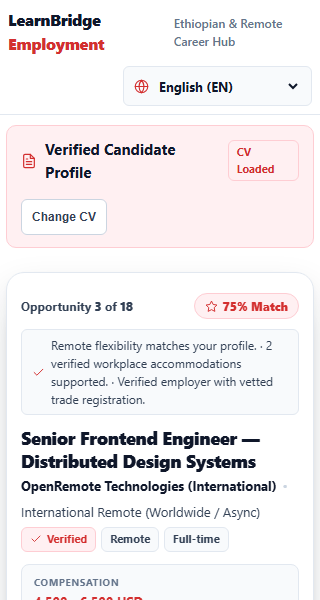
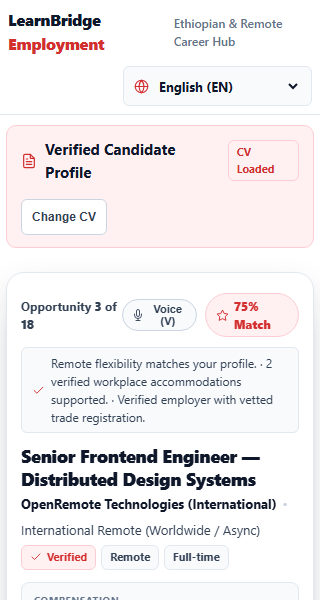
feat(employment): map 'M' key for job details, add continuous mic button and 'V' key shortcut

Changed region(s): [[0.0625, 0.48, 0.9375, 1.0], [0.0625, 0.51, 0.125, 0.57]]

diff --git a/employment/accessibility/a11yManager.js b/employment/accessibility/a11yManager.js
@@ -637,29 +637,100 @@ class AccessibilityManager {
 
   setupSpeechRecognition() {
     const SpeechRecognition = window.SpeechRecognition || window.webkitSpeechRecognition;
-    if (!SpeechRecognition) return;
+    if (!SpeechRecognition) {
+      console.warn("[A11yManager] SpeechRecognition not available in this environment.");
+      return;
+    }
 
-    this.recognition = new SpeechRecognition();
-    this.recognition.continuous = false;
-    this.recognition.interimResults = false;
-    this.recognition.lang = 'en-US';
+    try {
+      this.recognition = new SpeechRecognition();
+      this.recognition.continuous = true;
+      this.recognition.interimResults = false;
+      this.recognition.lang = 'en-US';
+      this.isListeningActive = false;
 
-    this.recognition.onstart = () => {
-      this.voiceActive = true;
-      const hud = document.getElementById('voice-hud');
-      if (hud) hud.classList.add('active');
-      this.announceLive("Voice search listening...", false);
-    };
+      this.recognition.onstart = () => {
+        this.voiceActive = true;
+        this.updateVoiceStatusUI(true);
+        this.announceLive("Voice listening active. Say more, apply, or pass.", false);
+      };
 
-    this.recognition.onend = () => {
-      this.voiceActive = false;
-      const hud = document.getElementById('voice-hud');
-      if (hud) hud.classList.remove('active');
-    };
+      this.recognition.onend = () => {
+        this.voiceActive = false;
+        if (this.isListeningActive) {
+          try {
+            this.recognition.start();
+          } catch (_) {
+            this.updateVoiceStatusUI(false);
+          }
+        } else {
+          this.updateVoiceStatusUI(false);
+        }
+      };
 
-    this.recognition.onerror = (e) => {
-      console.warn("[A11yManager] Voice recognition error:", e.error);
-    };
+      this.recognition.onerror = (e) => {
+        console.warn("[A11yManager] Voice recognition error:", e.error);
+        if (e.error === 'not-allowed') {
+          this.isListeningActive = false;
+          this.updateVoiceStatusUI(false);
+          this.showVisualToast("Microphone access denied. Please click the microphone icon in your browser address bar to allow.");
+        }
+      };
+
+      this.recognition.onresult = (event) => {
+        const lastResult = event.results[event.results.length - 1];
+        if (!lastResult) return;
+        const transcript = lastResult[0].transcript;
+        console.log("[A11yManager] Heard voice:", transcript);
+
+        if (window.app && typeof window.app.handleVoiceCommand === 'function') {
+          window.app.handleVoiceCommand(transcript);
+        }
+      };
+    } catch (err) {
+      console.warn("[A11yManager] Failed to init SpeechRecognition:", err);
+    }
+  }
+
+  toggleVoiceListening() {
+    if (!this.recognition) {
+      this.showVisualToast("Speech recognition not supported in this browser. Please use M, Left Arrow, and Right Arrow.");
+      return;
+    }
+
+    if (this.voiceActive || this.isListeningActive) {
+      this.isListeningActive = false;
+      try { this.recognition.stop(); } catch (_) {}
+      this.updateVoiceStatusUI(false);
+      this.showVisualToast("Microphone muted.");
+    } else {
+      this.isListeningActive = true;
+      try {
+        this.recognition.start();
+        this.showVisualToast("Listening for voice commands: 'more', 'apply', 'pass'");
+      } catch (err) {
+        console.warn("[A11yManager] Speech start error:", err);
+        this.showVisualToast("Please allow microphone access in your browser.");
+      }
+    }
+  }
+
+  updateVoiceStatusUI(isActive) {
+    this.voiceActive = isActive;
+    const btns = document.querySelectorAll('.btn-deck-mic');
+    btns.forEach(btn => {
+      if (isActive) {
+        btn.classList.add('is-listening');
+        btn.setAttribute('aria-pressed', 'true');
+        const lbl = btn.querySelector('.mic-status-label');
+        if (lbl) lbl.textContent = 'Mic: Listening (V)';
+      } else {
+        btn.classList.remove('is-listening');
+        btn.setAttribute('aria-pressed', 'false');
+        const lbl = btn.querySelector('.mic-status-label');
+        if (lbl) lbl.textContent = 'Voice (V)';
+      }
+    });
   }
 
   startVoiceSearch(onResultCallback) {

diff --git a/employment/app.js b/employment/app.js
@@ -394,9 +394,23 @@ class EmploymentApp {
       };
     }
 
+    // Bind Voice Microphone toggle button
+    const micBtn = wrapper.querySelector('#btn-deck-mic');
+    if (micBtn) {
+      micBtn.onclick = (e) => {
+        e.preventDefault();
+        if (window.a11y) window.a11y.toggleVoiceListening();
+      };
+      if (window.a11y && window.a11y.voiceActive) {
+        micBtn.classList.add('is-listening');
+        const lbl = micBtn.querySelector('.mic-status-label');
+        if (lbl) lbl.textContent = 'Mic: Listening (V)';
+      }
+    }
+
     // Accessible announcements for screen readers & TTS
     const job = currentItem.job;
-    const spokenSummary = `Opportunity ${this.currentCardIndex + 1} of ${this.cardDeck.length}: ${job.title} at ${job.employerName}. ${currentItem.matchScore}% Match. Press Right Arrow to apply with CV, Left Arrow to pass, or Tab for full details.`;
+    const spokenSummary = `Opportunity ${this.currentCardIndex + 1} of ${this.cardDeck.length}: ${job.title} at ${job.employerName}. ${currentItem.matchScore}% Match. Press Right Arrow to apply with CV, Left Arrow to pass, or M for full details.`;
     if (window.a11y) {
       window.a11y.announceLive(spokenSummary, false);
       if (window.a11y.currentMode === 'blind') {
@@ -427,10 +441,10 @@ class EmploymentApp {
       if (toggleBtn) {
         toggleBtn.setAttribute('aria-expanded', 'false');
         const txt = toggleBtn.querySelector('.toggle-text');
-        if (txt) txt.textContent = 'More Details (Tab or say "more")';
+        if (txt) txt.textContent = 'More Details (Press M or click)';
       }
       if (window.a11y) {
-        window.a11y.announceLive("Collapsed details. Press Right Arrow to apply, Left Arrow to pass, Tab for more details.", false);
+        window.a11y.announceLive("Collapsed details. Press Right Arrow to apply, Left Arrow to pass, M for details.", false);
       }
     } else {
       detailsEl.style.display = 'block';
@@ -439,12 +453,12 @@ class EmploymentApp {
       if (toggleBtn) {
         toggleBtn.setAttribute('aria-expanded', 'true');
         const txt = toggleBtn.querySelector('.toggle-text');
-        if (txt) txt.textContent = 'Less Details (Tab to collapse)';
+        if (txt) txt.textContent = 'Less Details (Press M to collapse)';
       }
       if (window.a11y) {
         const currentItem = this.cardDeck[this.currentCardIndex];
         const job = currentItem?.job;
-        const spoken = `Full details for ${job?.title || 'job'}. Press Right Arrow to apply with CV, Left Arrow to pass, or Tab to collapse.`;
+        const spoken = `Full details for ${job?.title || 'job'}. Press Right Arrow to apply with CV, Left Arrow to pass, or M to collapse.`;
         window.a11y.announceLive(spoken, false);
         if (window.a11y.currentMode === 'blind') {
           window.a11y.speak(spoken);
@@ -1083,12 +1097,17 @@ class EmploymentApp {
 
       const isRight = e.key === 'ArrowRight' || e.code === 'ArrowRight' || e.key === 'Right' || e.keyCode === 39;
       const isLeft = e.key === 'ArrowLeft' || e.code === 'ArrowLeft' || e.key === 'Left' || e.keyCode === 37;
-      const isTab = e.key === 'Tab' || e.code === 'Tab' || e.keyCode === 9;
+      const isMore = e.key === 'm' || e.key === 'M' || e.code === 'KeyM';
+      const isVoice = e.key === 'v' || e.key === 'V' || e.code === 'KeyV';
 
-      if (isTab) {
+      if (isMore) {
         e.preventDefault();
         e.stopPropagation();
         this.toggleCardDetails();
+      } else if (isVoice) {
+        e.preventDefault();
+        e.stopPropagation();
+        if (window.a11y) window.a11y.toggleVoiceListening();
       } else if (isRight) {
         e.preventDefault();
         e.stopPropagation();

diff --git a/employment/components/JobCard.js b/employment/components/JobCard.js
@@ -219,9 +219,15 @@ class JobCardComponent {
             <div class="deck-counter-badge">
               Opportunity <strong>${index + 1}</strong> of <strong>${total}</strong>
             </div>
-            <div class="match-score-pill">
-              <svg class="ui-icon" style="width: 13px; height: 13px;" viewBox="0 0 24 24"><polygon points="12 2 15.09 8.26 22 9.27 17 14.14 18.18 21.02 12 17.77 5.82 21.02 7 14.14 2 9.27 8.91 8.26 12 2"/></svg>
-              <span><strong>${matchScore}%</strong> Match</span>
+            <div style="display: flex; align-items: center; gap: 8px;">
+              <button type="button" class="btn-deck-mic" id="btn-deck-mic" aria-label="Toggle voice commands microphone (Press V)" title="Click or press V to speak commands: 'more', 'apply', 'pass'">
+                <svg class="ui-icon mic-icon" viewBox="0 0 24 24"><path d="M12 1a3 3 0 0 0-3 3v8a3 3 0 0 0 6 0V4a3 3 0 0 0-3-3z"/><path d="M19 10v2a7 7 0 0 1-14 0v-2"/><line x1="12" y1="19" x2="12" y2="23"/><line x1="8" y1="23" x2="16" y2="23"/></svg>
+                <span class="mic-status-label">Voice (V)</span>
+              </button>
+              <div class="match-score-pill">
+                <svg class="ui-icon" style="width: 13px; height: 13px;" viewBox="0 0 24 24"><polygon points="12 2 15.09 8.26 22 9.27 17 14.14 18.18 21.02 12 17.77 5.82 21.02 7 14.14 2 9.27 8.91 8.26 12 2"/></svg>
+                <span><strong>${matchScore}%</strong> Match</span>
+              </div>
             </div>
           </div>
 
@@ -270,13 +276,13 @@ class JobCardComponent {
             ` : ''}
           </div>
 
-          <!-- Toggle More Details Button (Tab key or click) -->
-          <button type="button" class="btn-card-toggle-details" id="btn-card-toggle-details" aria-expanded="false" aria-controls="card-expanded-details-${job.id}" aria-label="Toggle full job details (Press Tab or say more)">
-            <span class="toggle-text">More Details (Tab or say "more")</span>
+          <!-- Toggle More Details Button (M key or click) -->
+          <button type="button" class="btn-card-toggle-details" id="btn-card-toggle-details" aria-expanded="false" aria-controls="card-expanded-details-${job.id}" aria-label="Toggle full job details (Press M or click)">
+            <span class="toggle-text">More Details (Press M or click)</span>
             <svg class="ui-icon toggle-icon" viewBox="0 0 24 24"><polyline points="6 9 12 15 18 9"/></svg>
           </button>
 
-          <!-- Expanded Full Details (Revealed via Tab or 'More') -->
+          <!-- Expanded Full Details (Revealed via M or 'More') -->
           <div class="swipe-card-expanded-details" id="card-expanded-details-${job.id}" style="display: none;" aria-hidden="true">
             ${resps ? `
               <div class="swipe-card-section">
@@ -312,7 +318,7 @@ class JobCardComponent {
               <span>Pass</span>
             </div>
             <div class="hint-col hint-mid">
-              <kbd class="key-kbd">Tab</kbd>
+              <kbd class="key-kbd">M</kbd>
               <span>More Info</span>
             </div>
             <div class="hint-col hint-right">

diff --git a/employment/tests/e2e-browser.test.js b/employment/tests/e2e-browser.test.js
@@ -189,15 +189,15 @@ async function runBrowserTests() {
     assert.ok(firstCardTitle && firstCardTitle.length > 0);
     passed++;
 
-    // 12. Test Tab Key to Reveal More Job Information
-    await page.keyboard.press('Tab');
+    // 12. Test 'M' Key to Reveal More Job Information
+    await page.keyboard.press('m');
     await page.waitForTimeout(300);
-    const detailsVisibleAfterTab = await page.evaluate(() => {
+    const detailsVisibleAfterM = await page.evaluate(() => {
       const el = document.querySelector('.swipe-card-expanded-details');
       return el && el.style.display !== 'none';
     });
-    console.log(`✓ 14. Pressed Tab key: Expanded job details visible = ${detailsVisibleAfterTab}`);
-    assert.strictEqual(detailsVisibleAfterTab, true, "Pressing Tab must expand full job details");
+    console.log(`✓ 14. Pressed 'M' key: Expanded job details visible = ${detailsVisibleAfterM}`);
+    assert.strictEqual(detailsVisibleAfterM, true, "Pressing 'M' must expand full job details");
     passed++;
 
     // 13. Test Right Arrow While Viewing Full Details (Arrow keys must still work!)
@@ -208,8 +208,8 @@ async function runBrowserTests() {
     assert.ok(secondCardTitle && secondCardTitle !== firstCardTitle);
     passed++;
 
-    // 14. Test Tab Key on Next Card and Left Arrow to Pass While Expanded
-    await page.keyboard.press('Tab');
+    // 14. Test 'M' Key on Next Card and Left Arrow to Pass While Expanded
+    await page.keyboard.press('m');
     await page.waitForTimeout(300);
     await page.keyboard.press('ArrowLeft');
     await page.waitForTimeout(400);

diff --git a/employment/employment.css b/employment/employment.css
@@ -440,6 +440,45 @@ textarea:focus-visible,
   color: var(--text-secondary);
 }
 
+.btn-deck-mic {
+  display: inline-flex;
+  align-items: center;
+  gap: 5px;
+  padding: 3px 9px;
+  border-radius: var(--radius-pill);
+  background: var(--bg-muted);
+  border: 1px solid var(--border-strong);
+  font-size: 11px;
+  font-weight: 700;
+  color: var(--text-secondary);
+  cursor: pointer;
+  transition: all 0.15s ease;
+}
+
+.btn-deck-mic:hover, .btn-deck-mic:focus-visible {
+  border-color: var(--primary-red);
+  color: var(--primary-red);
+}
+
+.btn-deck-mic.is-listening {
+  background: var(--primary-red-tint);
+  border-color: var(--primary-red);
+  color: var(--primary-red);
+  box-shadow: 0 0 0 2px rgba(211, 47, 47, 0.25);
+  animation: pulse-mic 1.6s infinite ease-in-out;
+}
+
+.btn-deck-mic .mic-icon {
+  width: 12px;
+  height: 12px;
+}
+
+@keyframes pulse-mic {
+  0% { box-shadow: 0 0 0 0 rgba(211, 47, 47, 0.4); }
+  70% { box-shadow: 0 0 0 6px rgba(211, 47, 47, 0); }
+  100% { box-shadow: 0 0 0 0 rgba(211, 47, 47, 0); }
+}
+
 .match-score-pill {
   display: inline-flex;
   align-items: center;
